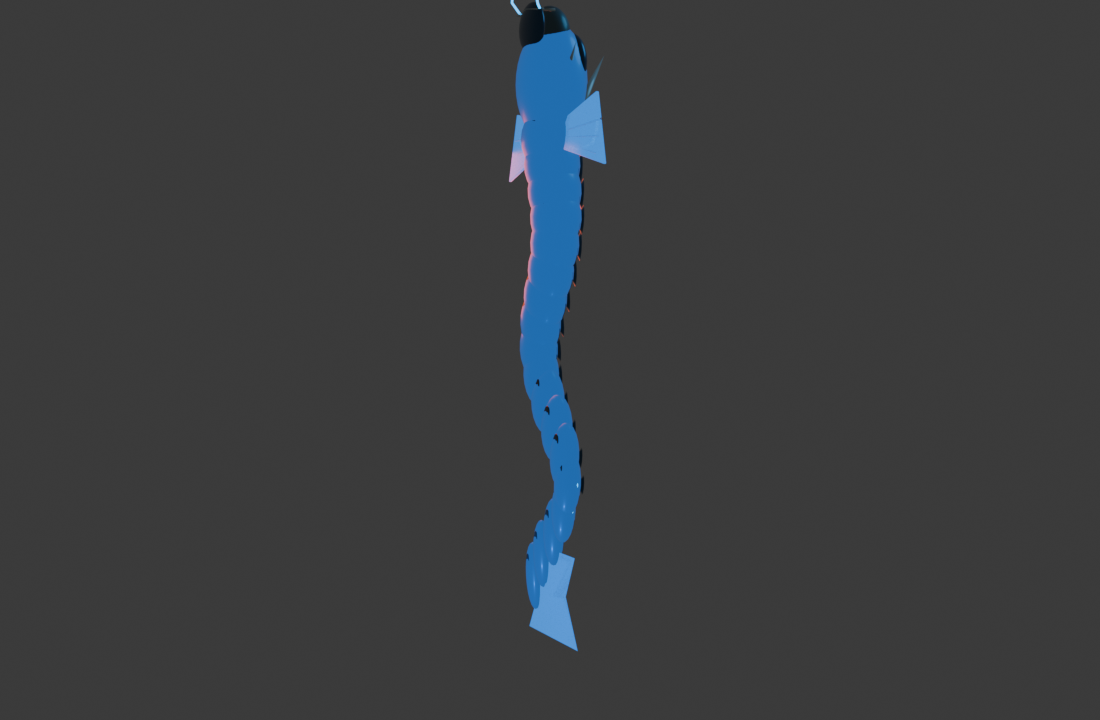
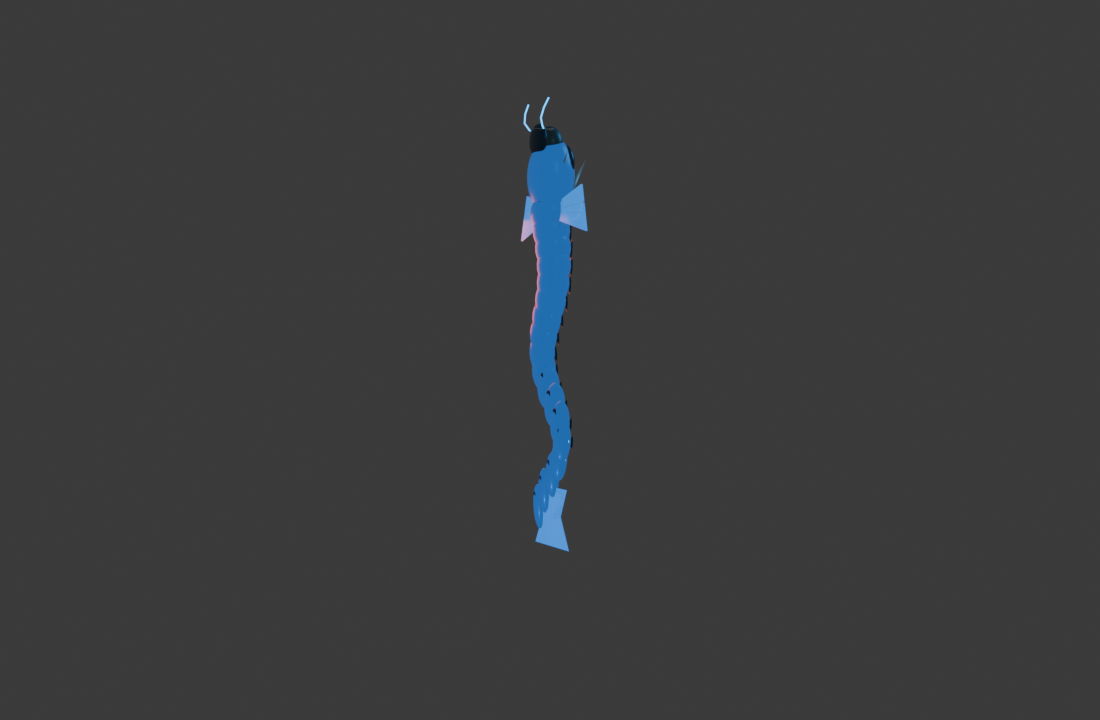
newiska64

Changed region(s): [[0.4636, 0.0, 0.5564, 0.9167]]

diff --git a/src/lib/ocean/enhanceCreatureMaterials.ts b/src/lib/ocean/enhanceCreatureMaterials.ts
@@ -1,0 +1,56 @@
+import * as THREE from 'three';
+import type { Species } from './creatureCatalog';
+
+function shaderColor(color: number): string {
+  const value = new THREE.Color(color);
+  return `vec3(${value.r.toFixed(4)}, ${value.g.toFixed(4)}, ${value.b.toFixed(4)})`;
+}
+
+function enhance(material: THREE.MeshStandardMaterial, species: Species): THREE.MeshStandardMaterial {
+  const result = material.clone();
+  const accent = shaderColor(species.palette[2]);
+  const glow = shaderColor(species.glow);
+  result.roughness = THREE.MathUtils.clamp(result.roughness * 0.86, 0.28, 0.78);
+  result.metalness = Math.min(result.metalness, 0.16);
+  result.envMapIntensity = 1.12;
+  result.onBeforeCompile = (shader) => {
+    shader.vertexShader = `varying vec3 vCreatureLocal;\n${shader.vertexShader}`
+      .replace('#include <begin_vertex>', '#include <begin_vertex>\nvCreatureLocal = position;');
+    shader.fragmentShader = `varying vec3 vCreatureLocal;\n${shader.fragmentShader}`
+      .replace(
+        '#include <color_fragment>',
+        `#include <color_fragment>
+        vec3 creatureCell = floor(vCreatureLocal * vec3(8.0, 11.0, 9.0));
+        float creatureSpeckle = fract(sin(dot(creatureCell, vec3(12.9898, 78.233, 37.719))) * 43758.5453);
+        float creatureBand = sin(vCreatureLocal.z * 9.5 + sin(vCreatureLocal.y * 7.0) * 1.7) * .5 + .5;
+        float creatureScale = smoothstep(.42, .74, creatureSpeckle * .56 + creatureBand * .44);
+        diffuseColor.rgb *= mix(.76, 1.08, creatureSpeckle);
+        diffuseColor.rgb = mix(diffuseColor.rgb, ${accent}, creatureScale * .22);`,
+      )
+      .replace(
+        '#include <roughnessmap_fragment>',
+        '#include <roughnessmap_fragment>\nroughnessFactor *= .82 + creatureSpeckle * .2;',
+      )
+      .replace(
+        '#include <emissivemap_fragment>',
+        `#include <emissivemap_fragment>
+        totalEmissiveRadiance += ${glow} * pow(creatureScale, 5.0) * .12;`,
+      );
+  };
+  result.customProgramCacheKey = () => `ocean-creature-${species.assetId}`;
+  return result;
+}
+
+function shouldEnhance(name: string): boolean {
+  return !/(eye|pupil|tooth|teeth|mouth|light|lure|glow)/i.test(name);
+}
+
+export function enhanceCreatureMaterials(model: THREE.Object3D, species: Species): void {
+  model.traverse((child) => {
+    if (!(child instanceof THREE.Mesh) || !shouldEnhance(child.name)) return;
+    const materials = Array.isArray(child.material) ? child.material : [child.material];
+    const enhanced = materials.map((material) => material instanceof THREE.MeshStandardMaterial
+      ? enhance(material, species) : material);
+    child.material = Array.isArray(child.material) ? enhanced : enhanced[0];
+  });
+}

diff --git a/src/lib/ocean/FishModel.ts b/src/lib/ocean/FishModel.ts
@@ -1,6 +1,7 @@
 import * as THREE from 'three';
 import { GLTFLoader } from 'three/addons/loaders/GLTFLoader.js';
 import type { Species } from './creatureCatalog';
+import { enhanceCreatureMaterials } from './enhanceCreatureMaterials';
 
 const urls = import.meta.glob('../../../../assets/models/ocean/fish/*.glb', {
   eager: true,
@@ -29,6 +30,7 @@ export function replaceWithBlenderFish(group: THREE.Group, species: Species): vo
   if (!pending) return;
   void pending.then((source) => {
     const model = source.clone(true);
+    enhanceCreatureMaterials(model, species);
     model.scale.setScalar(species.size);
     model.traverse((child) => {
       child.frustumCulled = false;

diff --git a/src/lib/ocean/SeaDragonModel.ts b/src/lib/ocean/SeaDragonModel.ts
@@ -1,6 +1,7 @@
 import * as THREE from 'three';
 import { GLTFLoader } from 'three/addons/loaders/GLTFLoader.js';
 import type { Species } from './creatureCatalog';
+import { enhanceCreatureMaterials } from './enhanceCreatureMaterials';
 
 const models = import.meta.glob('../../../../assets/models/ocean/abyssal-dragon.glb', {
   eager: true,
@@ -52,6 +53,7 @@ export function createSeaDragonModel(species: Species): THREE.Group {
   new GLTFLoader().load(url, (gltf) => {
     group.clear();
     const model = gltf.scene;
+    enhanceCreatureMaterials(model, species);
     prepareModel(model);
     group.add(model);
   });

diff --git a/scripts/blender/render_abyssal_dragon.py b/scripts/blender/render_abyssal_dragon.py
@@ -16,7 +16,7 @@ scene.render.image_settings.file_format = "PNG"
 scene.render.filepath = str(PREVIEW)
 scene.world.color = (0.003, 0.008, 0.02)
 
-bpy.ops.object.camera_add(location=(37, -28, -6))
+bpy.ops.object.camera_add(location=(46, -35, -7))
 camera = bpy.context.object
 camera.name = "Preview Camera"
 scene.camera = camera
@@ -50,6 +50,13 @@ bpy.ops.object.light_add(type="POINT", location=(0, -3, -15))
 bpy.context.object.data.energy = 260
 bpy.context.object.data.color = (0.02, 0.25, 1.0)
 
+bpy.ops.object.light_add(type="AREA", location=(16, -18, 9))
+front = bpy.context.object
+front.data.energy = 900
+front.data.color = (0.22, 0.72, 1.0)
+front.data.size = 10
+track(front, Vector((0, 0, -7)))
+
 root = bpy.data.objects.get("Abyssal Dragon")
 if root:
     root.rotation_euler[2] = math.radians(-16)
@@ -61,4 +68,10 @@ for obj in bpy.data.objects:
     obj.rotation_euler[1] = math.sin(index * 0.62) * 0.18
 
 PREVIEW.parent.mkdir(parents=True, exist_ok=True)
+bpy.ops.render.render(write_still=True)
+
+camera.location = (10, -15, 12)
+camera.data.lens = 62
+track(camera, Vector((0, 0, .5)))
+scene.render.filepath = str(PREVIEW.with_name("abyssal-dragon-head-preview.png"))
 bpy.ops.render.render(write_still=True)
